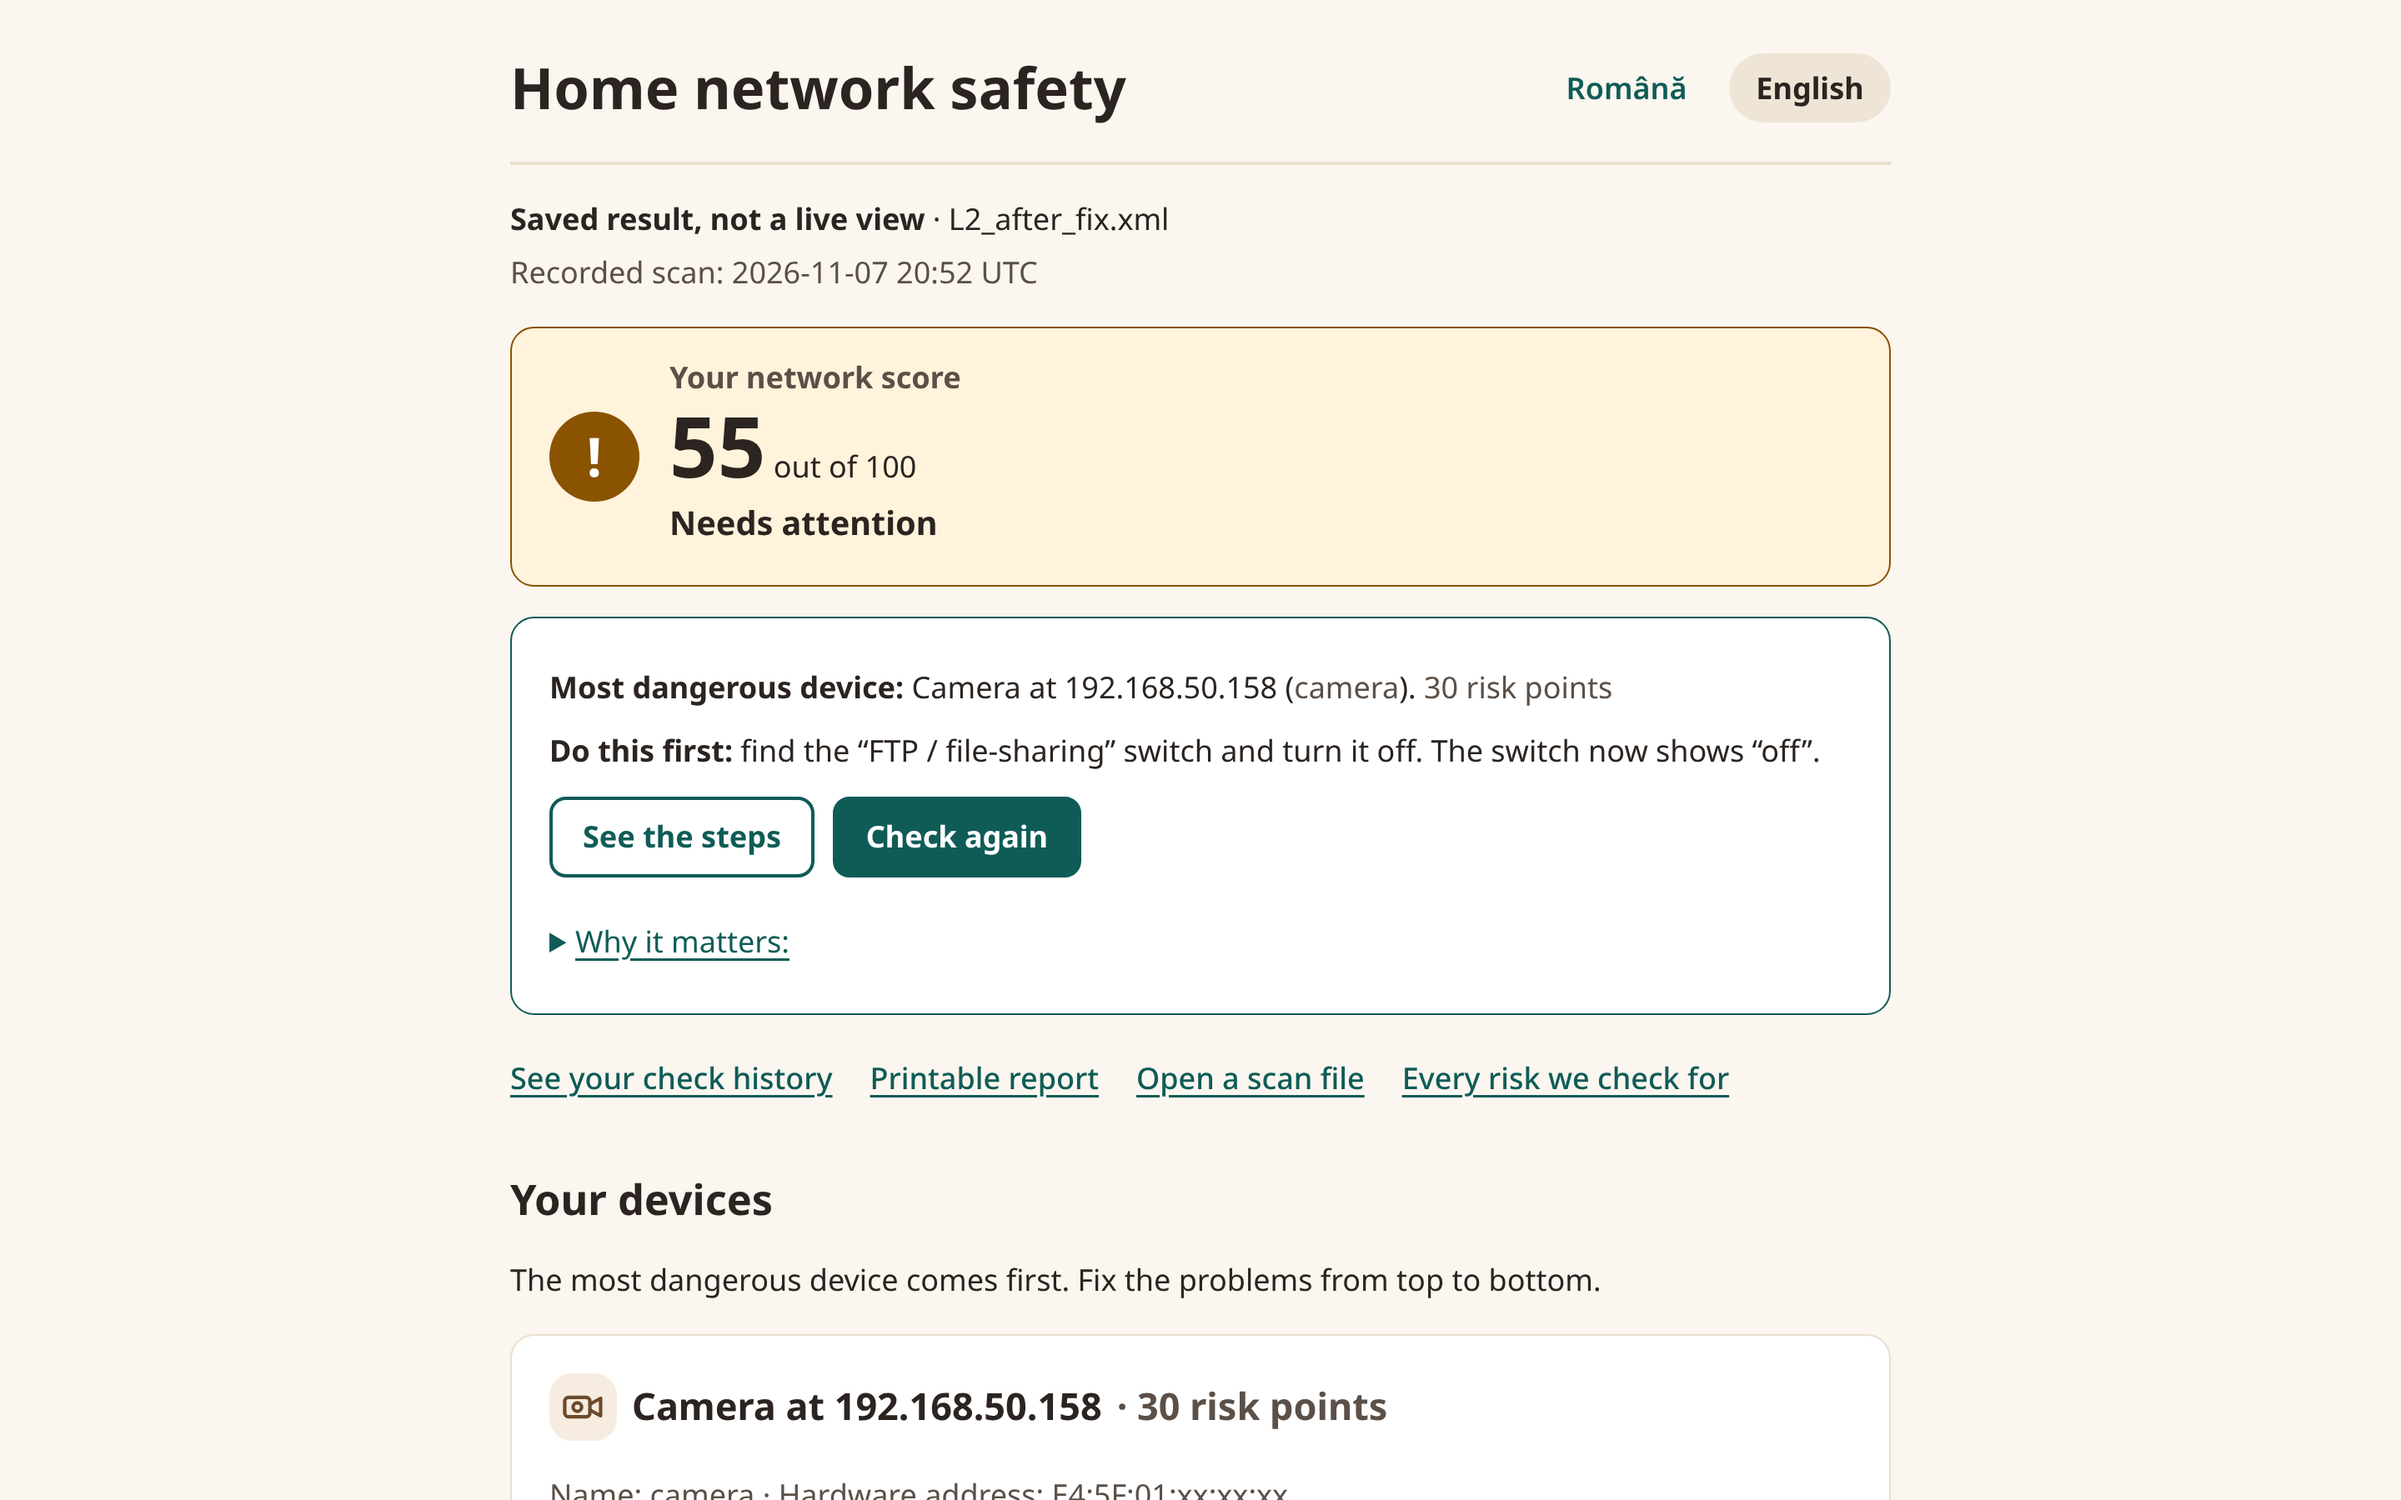
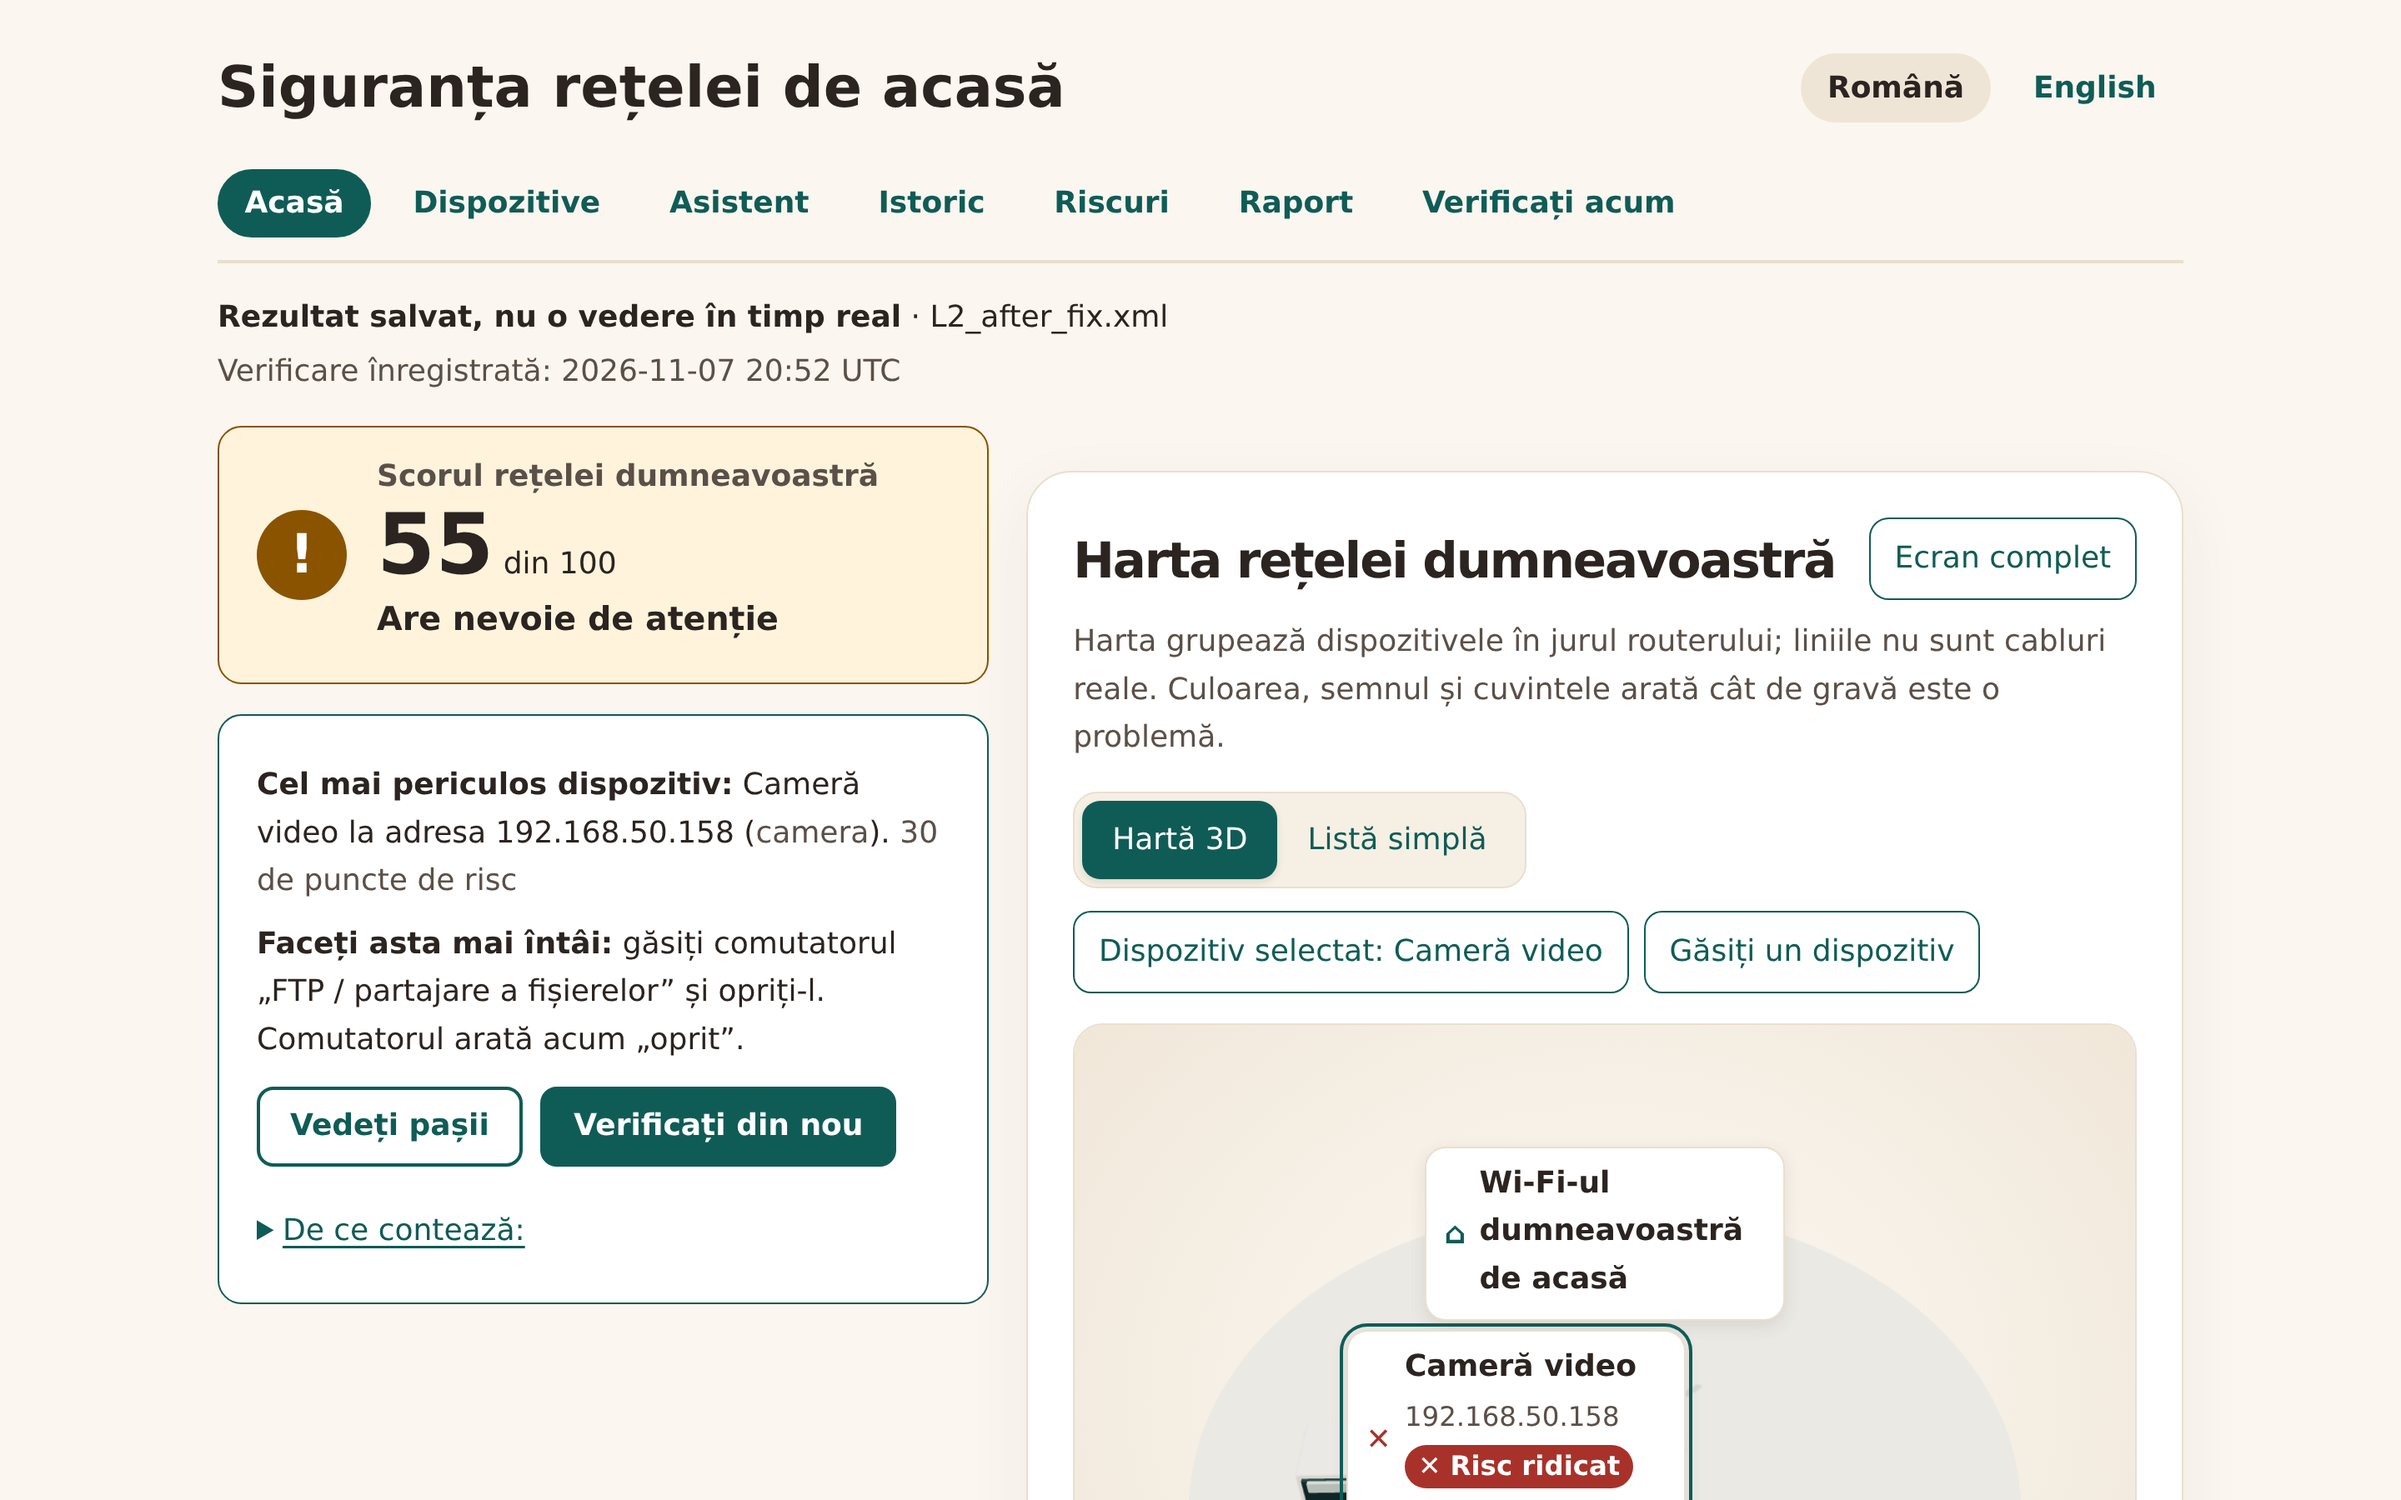
[docs] Pitch screenshots retaken on the merged UI (#302)
* [docs] Pitch screenshots retaken on the merged UI (nav, hero map) from main 4b37792

09a (L1 home, 25), 10a (L2 home, 55) and 11a (history 25 -> 55) were taken at
01:33 UTC, before #294 merged the new navigation and hero map. Same file names,
so docs/pitch.md links still work. Romanian, 1440x900 at 2x, headless Chromium,
real lab captures L1/L2.

* [docs] pitch.md: #273 UI integration is merged; only #145's browser press remains open

* [docs] Pitch screenshots retaken after #300 and #301 (polite nav, '60 de puncte de risc')

* [docs] Correct the screenshot provenance: 09a/10a/11a are Romanian retakes on d31bd68

---------

diff --git a/docs/pitch.md b/docs/pitch.md
@@ -42,8 +42,8 @@ Show these recorded images in order; do not wait for a new scan during the pitch
 4. [History: two problems resolved](screenshots/155-lab-manager/11a-bilet-history-first-screen.png)
 
 Operator note: these are earlier recorded screens. Say “recorded lab run,” not
-“live run.” Romanian screenshots predate #287's wording change; use the English
-images above unless refreshed captures are available. An authorized lab operator
+“live run.” The 09a/10a/11a first-screen crops above are Romanian retakes on d31bd68,
+after #300/#301; the original full-page 09/10/11 images remain English. An authorized lab operator
 can demonstrate the physical sequence during the separate live checks if ready.
 
 ## 3. Numbers — teammate3, 1 minute
@@ -83,7 +83,7 @@ can demonstrate the physical sequence during the separate live checks if ready.
 | Lab 25 → 55, two resolved | `tests/fixtures/lab/expected_scores.csv` and the committed screenshots linked above; see [asset notes](screenshots/155-lab-manager/README.md). |
 | 269 seconds, score 25, 23/23 rehearsal checks | Agent-D's hardware evidence, recorded on main `3a19d3e`, 8 Nov 00:23–00:28 UTC; summarized in [human actions](human-actions.md). Not measured by the pitch author. Do not promise the same timing with extra hotspot clients. |
 | AI answers rejected | **No measured count supplied for this pitch.** If demonstrating it, read the current UI's “AI answers blocked by the safety check” counter and state the observed count and context. Do not invent a total or label every rejected answer a hallucination. |
-| Final UI / full browser Check again path | #273 UI integration and #145 physical browser acceptance remain separate gates. Earlier runner acceptance is not proof of the whole browser path. |
+| Final UI / full browser Check again path | The #273 UI integration is merged (#294, #296). The #145 in-browser Check again press on the lab is still open (`docs/human-actions.md` row 4). Earlier runner acceptance is not proof of the whole browser path. |
 | User acceptance | Native Romanian review and the polite-form decision are recorded in #145/#287. Testing with a real nontechnical person is still pending; do not claim it passed. |
 | Morning Test Set / final build | Follow [Test Set runbook](test-set-runbook.md) and [live checks](live-checks.md). Replace no evidence with guesses. Upload and final tag remain human-only. |
 

diff --git a/docs/screenshots/155-lab-manager/README.md b/docs/screenshots/155-lab-manager/README.md
@@ -2,7 +2,8 @@
 
 Screenshots of the **real** lab manager and bilet, captured on 8 Nov 2026 on `RSH-dork_unit`.
 The bilet pages (09–12) are rendered from the real lab captures `L1`/`L2`. `12` was retaken after #287,
-so its Romanian matches `main`. The others are in English, so #287 doesn't change them.
+so its Romanian matches `main`. The 09a/10a/11a first-screen crops are Romanian retakes on
+`d31bd68`, after #300/#301; the original full-page 09/10/11 images remain English.
 The access code doesn't appear anywhere in this folder. Keep it that way: anyone on the
 hotspot, jury included, can reach the sign-in page.
 
